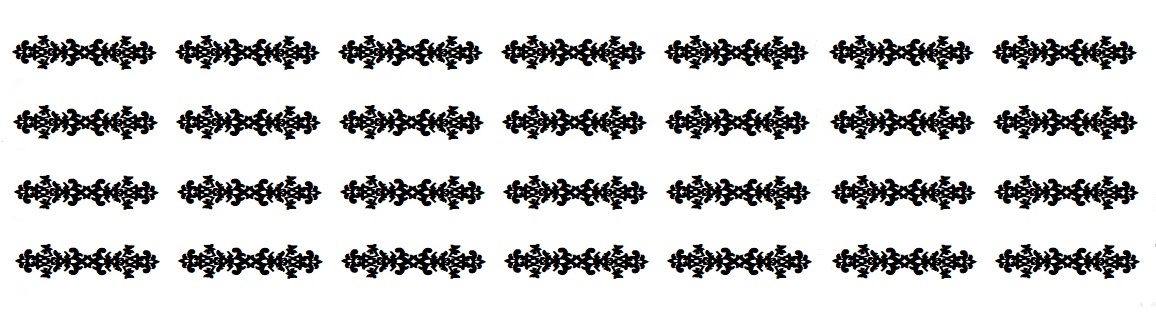
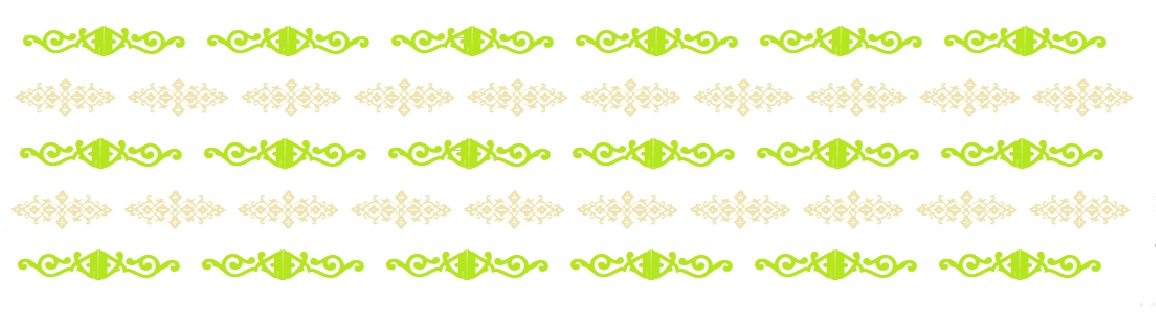
about and images modified

diff --git a/about.html b/about.html
@@ -26,28 +26,27 @@
       <div class="clr"></div>
     </div>
 	</div>
-	<div class="content">
+	 <div class="content">
     <div class="content_resize">
       <div class="mainbar">
         <div class="article">
-          <h2>Cat's Glare</h2>
-          <p class="infopost">Posted on <span class="date">02 oct 2017</span> by <a href="#">Admin</a></p>
           <div class="clr"></div>
-          <div class="img"><img src="images/img1.jpg" width="162" height="192" alt="" class="fl" /></div>
-          <div class="post_content">
-				<p>My friend and I, went to cat cafe named <strong>Purr Box</strong> this cafe is located near at corner Obrero. The place is good and the also the food.</p>
-          </div>
-          <div class="clr"></div>
-        </div>
-		        <div class="article">
-          <h2>Flowers are violet...</h2>
-          <p class="infopost">Posted on <span class="date">02 oct 2017</span> by <a href="#">Admin</a></p>
-          <div class="clr"></div>
-          <div class="img"><img src="images/img2.jpg" width="162" height="192" alt="" class="fl" /></div>
-          <div class="post_content">
-            <p>There are so many beautiful things in our surroundings that hasn't been given a chance to notice.</p>
-          </div>
-          <div class="clr"></div>
+          <table class="sb_menu">
+		  <tr>
+            <td><img src="images/pic1.jpg" width="200" height="200"><br /><p id="food_info">Two Feet</p></td>
+            <td><img src="images/pic2.jpg" width="200" height="200"><br /><p id="food_info">Beach Sunset</p></td>
+            <td><img src="images/pic3.jpg" width="200" height="200"><br /><p id="food_info">Rocky Sea</p></td>
+		  </tr>
+		  <tr>
+            <td><img src="images/pic4.jpg" width="200" height="200"><br /><p id="food_info">Violet Flower</p></td>
+            <td><img src="images/pic5.jpg" width="200" height="200"><br /><p id="food_info">Yummy Food</p></td>
+            <td><img src="images/pic6.jpg" width="200" height="200"><br /><p id="food_info">The Vandal</p></td>
+		  </tr>
+		  <tr>
+            <td><img src="images/pic7.jpg" width="200" height="200"><br /><p id="food_info">Alone</p></td>
+            <td><img src="images/pic8.jpg" width="200" height="200"><br /><p id="food_info">Little Gumamela</p></td>
+            <td><img src="images/pic9.jpg" width="200" height="200"><br /><p id="food_info">Cat's Glare</p></td>
+		  </table>
         </div>
       </div>
 	   <div class="sidebar">
